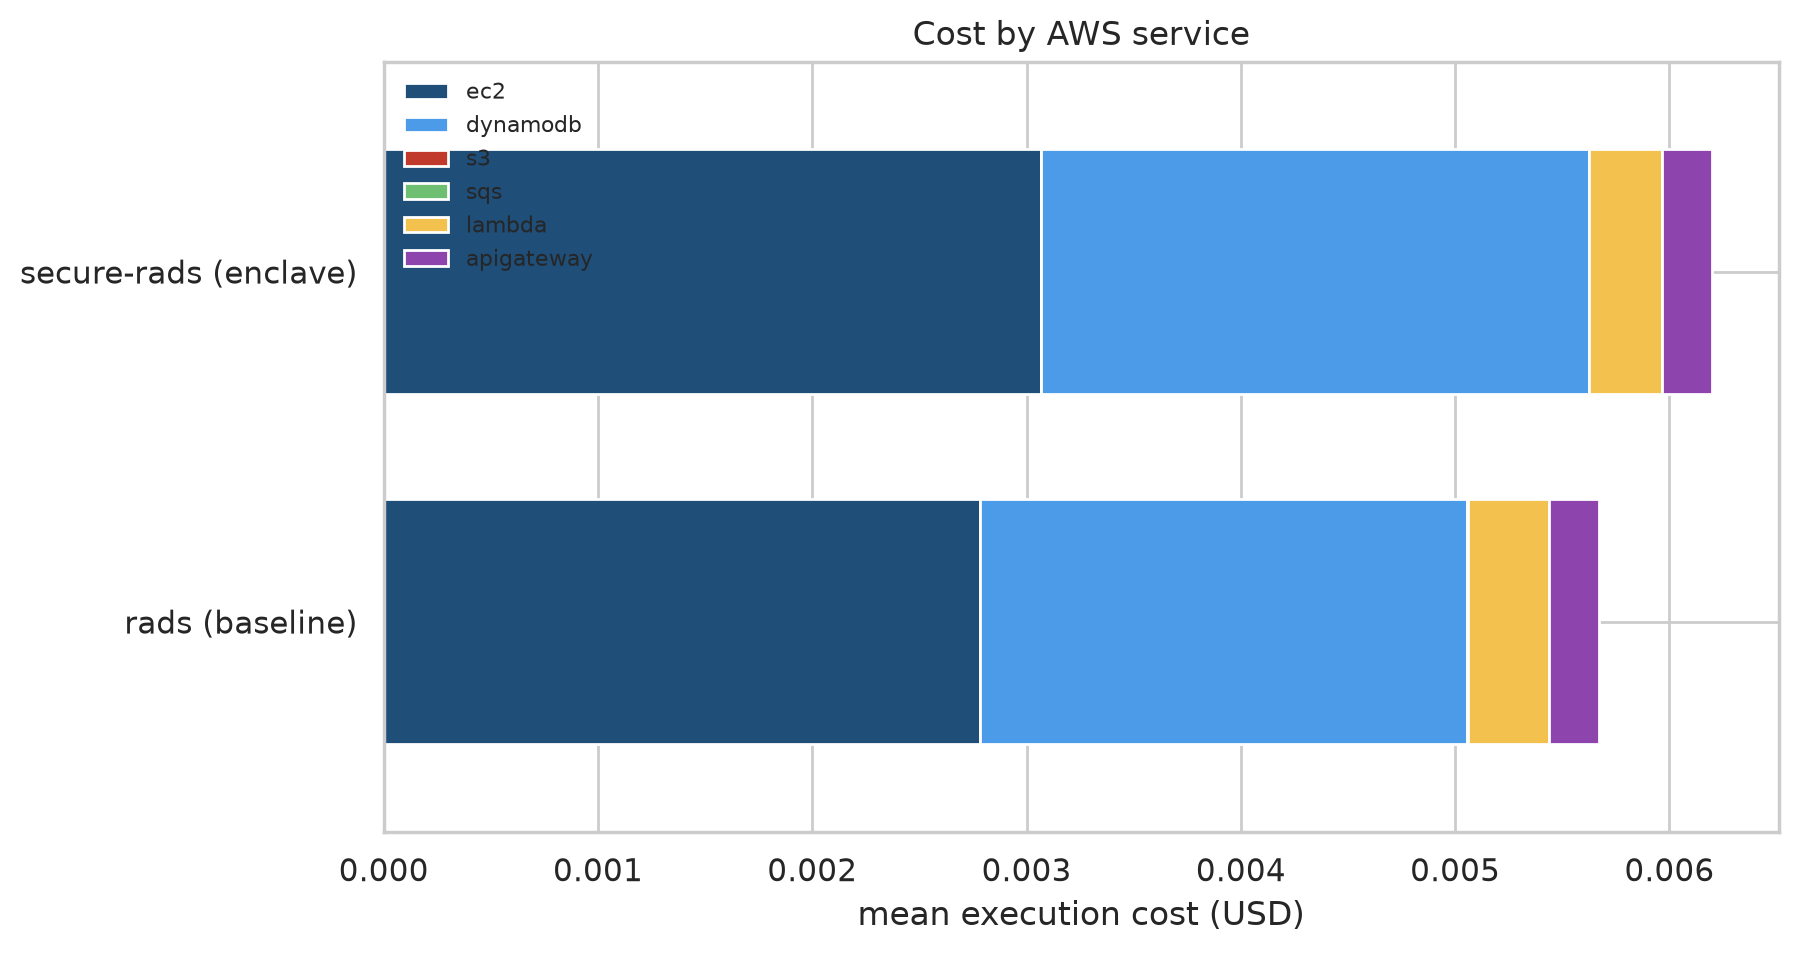
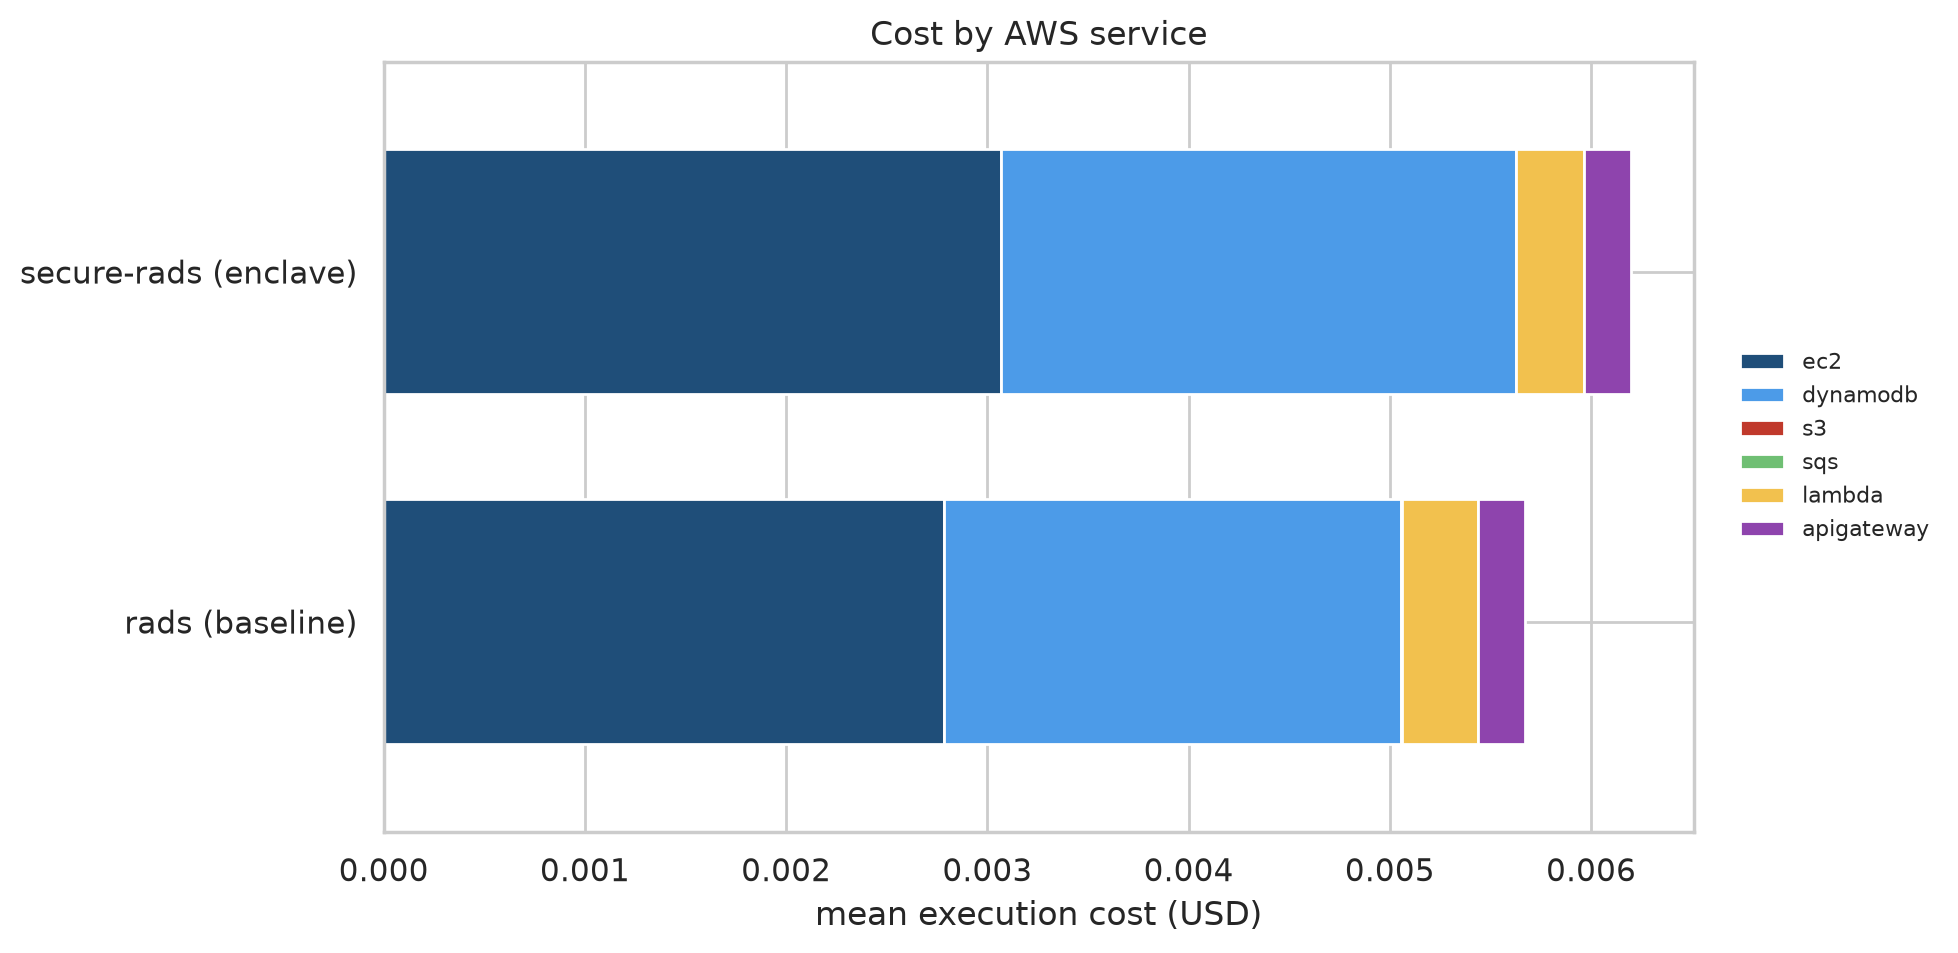
fix(benchmark): move service legend outside chart
Review: Limited user review before commit

diff --git a/benchmark/src/plot.py b/benchmark/src/plot.py
@@ -136,12 +136,13 @@ def cost_services_figure(df: pd.DataFrame) -> None:
     by_service.columns = [column.removesuffix("_cost_usd") for column in by_service.columns]
     present = [service for service in COST_SERVICES if service in by_service.columns]
     by_service = by_service[present]
-    fig, ax = plt.subplots(figsize=(9, 5))
+    fig, ax = plt.subplots(figsize=(10, 5))
     by_service.plot.barh(stacked=True, color=COST_COLORS, width=0.7, ax=ax)
     ax.set_xlabel("mean execution cost (USD)")
     ax.set_ylabel("")
     ax.set_title("Cost by AWS service")
-    ax.legend(title=None, frameon=False, fontsize=8)
+    ax.legend(title=None, loc="center left", bbox_to_anchor=(1.02, 0.5), frameon=False, fontsize=8)
+    fig.subplots_adjust(right=0.78)
     _save(fig, "sweep-cost-services.png")
 
 
